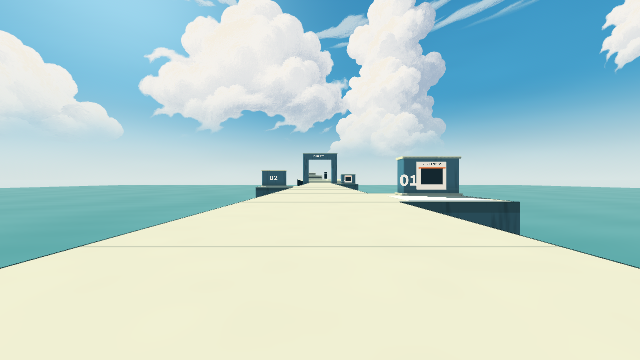
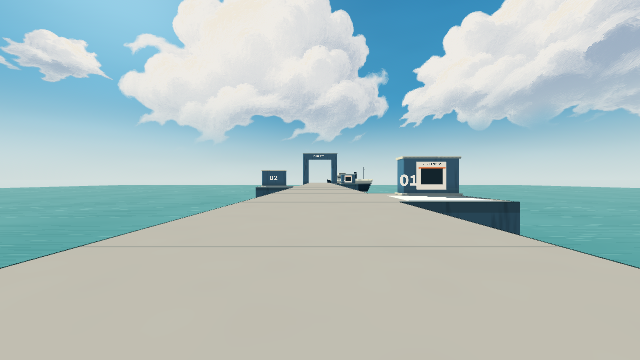
chore: map previews from the final integrated looks (ccChat-general-jwhj.4)

diff --git a/scripts/ui/map_previews/PROVENANCE.md b/scripts/ui/map_previews/PROVENANCE.md
@@ -10,4 +10,4 @@ The initial map/art/shader/assets baseline is integration `0197ff2`; these paths
 
 ## Refresh, 21 Nov 2026
 
-All 20 frames were recaptured from the integrated design state `c0c485e` (every map lane's look merged), through the lane's merge commit `abe0915`, which adds only menu presentation on top. The capture used the same manifest poses, the pinned Godot engine through `tools/shot.py`'s wrapper on its private display, 640x360 native viewport readback, HUD hidden, and reported a clean source status. `manifest.json` carries the new image hashes and `abe0915` as source commit. Receipts (capture and display records, the capture harness and a contact sheet) are kept outside Git under `/home/thatmike1/spillway-design-1121/frames/04-menus/preview-receipts-1121/`.
+All 20 frames were recaptured from the integrated design state `4ab6cb6` (every map lane's latest look at 18:29, except lane 08's Viaduct dam base, which was still merging). The capture used the same manifest poses, the pinned Godot engine through `tools/shot.py`'s wrapper on its private display, a 640x360 root viewport read back directly with the HUD hidden, and reported a clean source status. `manifest.json` carries the new image hashes and `4ab6cb6` as source commit. Receipts (capture and display records, the capture harness and a contact sheet) are kept outside Git under `/home/thatmike1/spillway-design-1121/frames/04-menus/preview-receipts-1121-final/`; an earlier pass from `c0c485e` is under `preview-receipts-1121/`.
